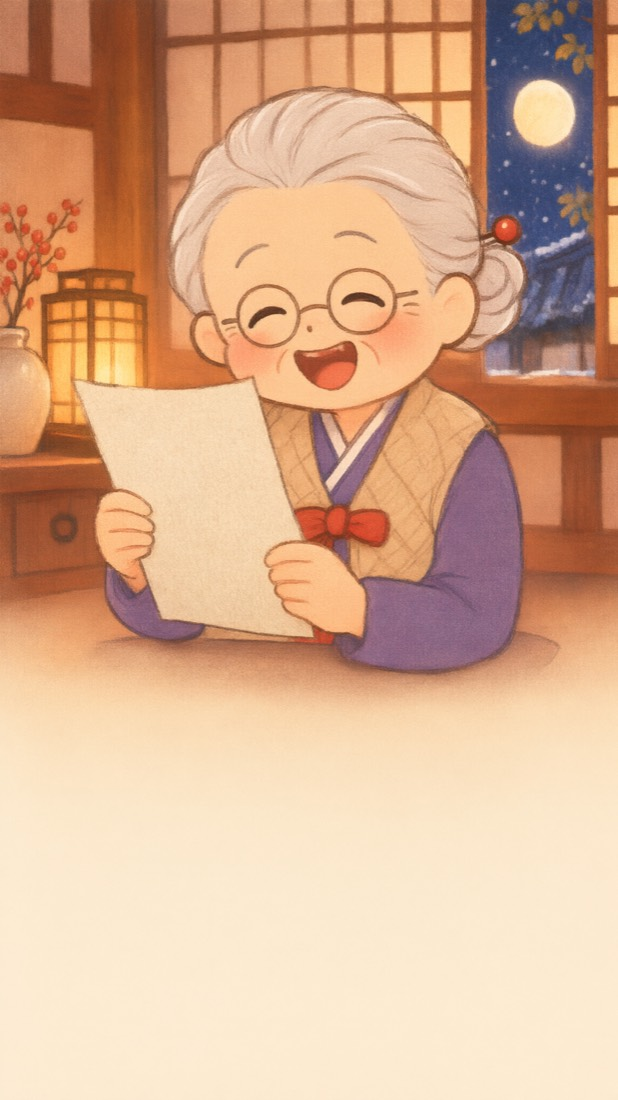
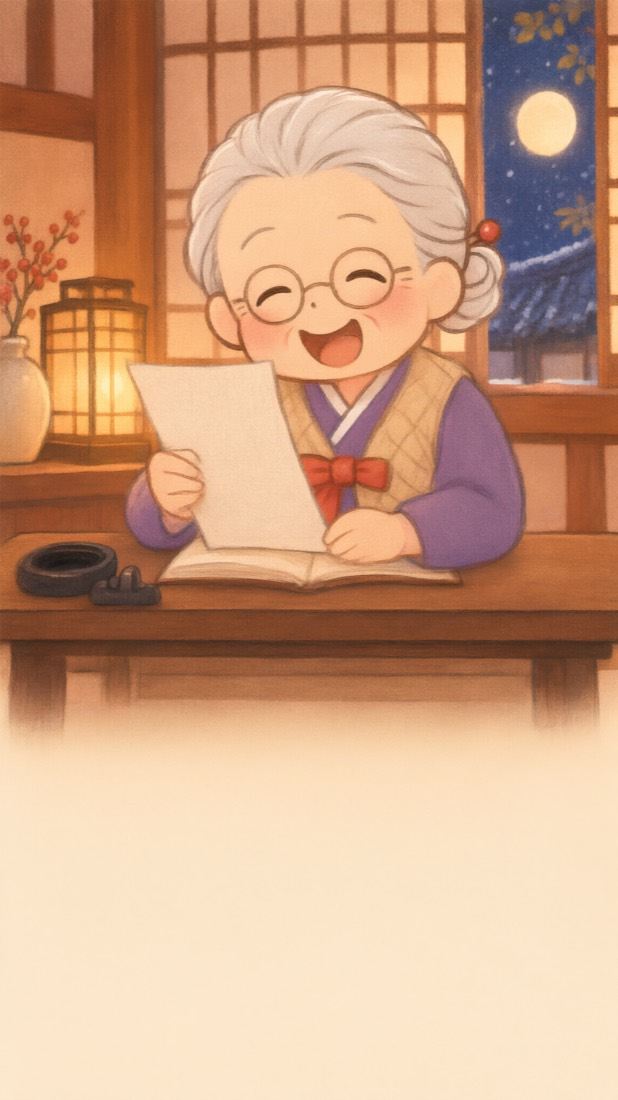
질문 화면 9장: 책상 앞으로

diff --git a/preview/questions.html b/preview/questions.html
@@ -1,3 +1,3 @@
 <!doctype html><html lang="ko"><head><meta charset="utf-8"><meta name="viewport" content="width=device-width,initial-scale=1"><meta name="robots" content="noindex,nofollow"><title>할미 질문 화면 9장</title>
 <style>body{margin:0;background:#F6F1E7;font-family:-apple-system,sans-serif;color:#2B2622}main{max-width:448px;margin:0 auto;padding:16px 16px 48px}h1{font-size:20px;line-height:30px;margin:8px 0}p{font-size:15px;line-height:24px;color:#6E6459;margin:4px 0 16px}.box{position:relative;border-radius:16px;overflow:hidden}.box img{display:block;width:100%}.say{position:absolute;left:16px;right:16px;bottom:24%;text-align:center;font-family:serif;font-size:18px;line-height:27px;color:#0E324C;margin:0}.cap{font-size:13px;margin:4px 0 24px}</style></head>
-<body><main><h1>질문 화면 9장 · 방 안 · 청월당 구도</h1><p>영상으로 만들기 전 그림이에요. 문구는 청월당 원문 그대로 얹었어요.</p><div class="box"><img src="q/Q1.jpg" loading="lazy"><p class="say">“신년 운세를 보기 위해, 먼저 이름부터 알려줄래요?”</p></div><p class="cap">Q1</p><div class="box"><img src="q/Q2.jpg" loading="lazy"><p class="say">“다혜? 예쁜 이름이네요. 성별은 어떻게 돼요?”</p></div><p class="cap">Q2</p><div class="box"><img src="q/Q3.jpg" loading="lazy"><p class="say">“태어난 날도 알려주시겠어요?”</p></div><p class="cap">Q3</p><div class="box"><img src="q/Q4.jpg" loading="lazy"><p class="say">“1999년 겨울에 태어나셨군요! 몇 시에 태어났는지도 알고 계세요?”</p></div><p class="cap">Q4</p><div class="box"><img src="q/Q5.jpg" loading="lazy"><p class="say">“그렇다면 혹시.. 지금 연애 중이세요?”</p></div><p class="cap">Q5</p><div class="box"><img src="q/Q6.jpg" loading="lazy"><p class="say">“어떻게 지내는지도 궁금해요!”</p></div><p class="cap">Q6</p><div class="box"><img src="q/Q7.jpg" loading="lazy"><p class="say">“요즘 가장 큰 고민은 뭐예요?”</p></div><p class="cap">Q7</p><div class="box"><img src="q/Q8.jpg" loading="lazy"><p class="say">“특별히 궁금한 점이 있으시다면, 따로 정성껏 풀이 해 드릴게요!”</p></div><p class="cap">Q8</p><div class="box"><img src="q/Q9.jpg" loading="lazy"><p class="say">“자, 이제 마지막이에요! 제비 하나만 뽑아주시겠어요?”</p></div><p class="cap">Q9</p></main></body></html>
+<body><main><h1>질문 화면 9장 · 책상 앞 · 청월당 구도</h1><p>영상으로 만들기 전 그림이에요. 문구는 청월당 원문 그대로 얹었어요.</p><div class="box"><img src="q/Q1.jpg" loading="lazy"><p class="say">“신년 운세를 보기 위해, 먼저 이름부터 알려줄래요?”</p></div><p class="cap">Q1</p><div class="box"><img src="q/Q2.jpg" loading="lazy"><p class="say">“다혜? 예쁜 이름이네요. 성별은 어떻게 돼요?”</p></div><p class="cap">Q2</p><div class="box"><img src="q/Q3.jpg" loading="lazy"><p class="say">“태어난 날도 알려주시겠어요?”</p></div><p class="cap">Q3</p><div class="box"><img src="q/Q4.jpg" loading="lazy"><p class="say">“1999년 겨울에 태어나셨군요! 몇 시에 태어났는지도 알고 계세요?”</p></div><p class="cap">Q4</p><div class="box"><img src="q/Q5.jpg" loading="lazy"><p class="say">“그렇다면 혹시.. 지금 연애 중이세요?”</p></div><p class="cap">Q5</p><div class="box"><img src="q/Q6.jpg" loading="lazy"><p class="say">“어떻게 지내는지도 궁금해요!”</p></div><p class="cap">Q6</p><div class="box"><img src="q/Q7.jpg" loading="lazy"><p class="say">“요즘 가장 큰 고민은 뭐예요?”</p></div><p class="cap">Q7</p><div class="box"><img src="q/Q8.jpg" loading="lazy"><p class="say">“특별히 궁금한 점이 있으시다면, 따로 정성껏 풀이 해 드릴게요!”</p></div><p class="cap">Q8</p><div class="box"><img src="q/Q9.jpg" loading="lazy"><p class="say">“자, 이제 마지막이에요! 제비 하나만 뽑아주시겠어요?”</p></div><p class="cap">Q9</p></main></body></html>
